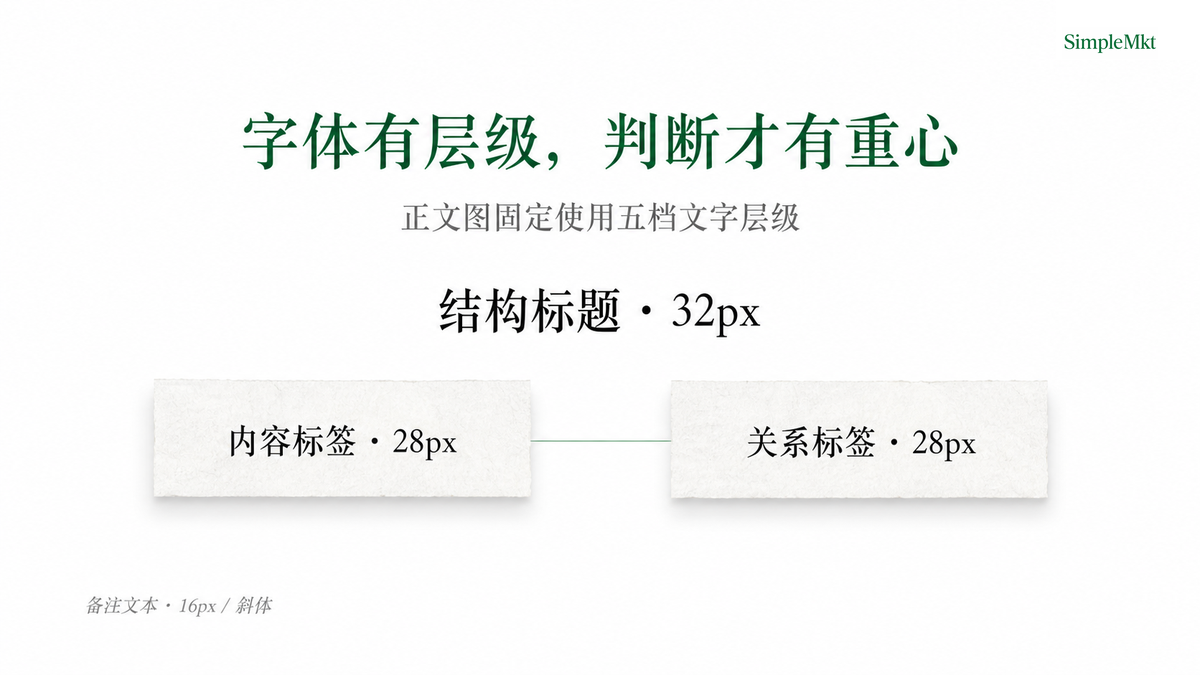
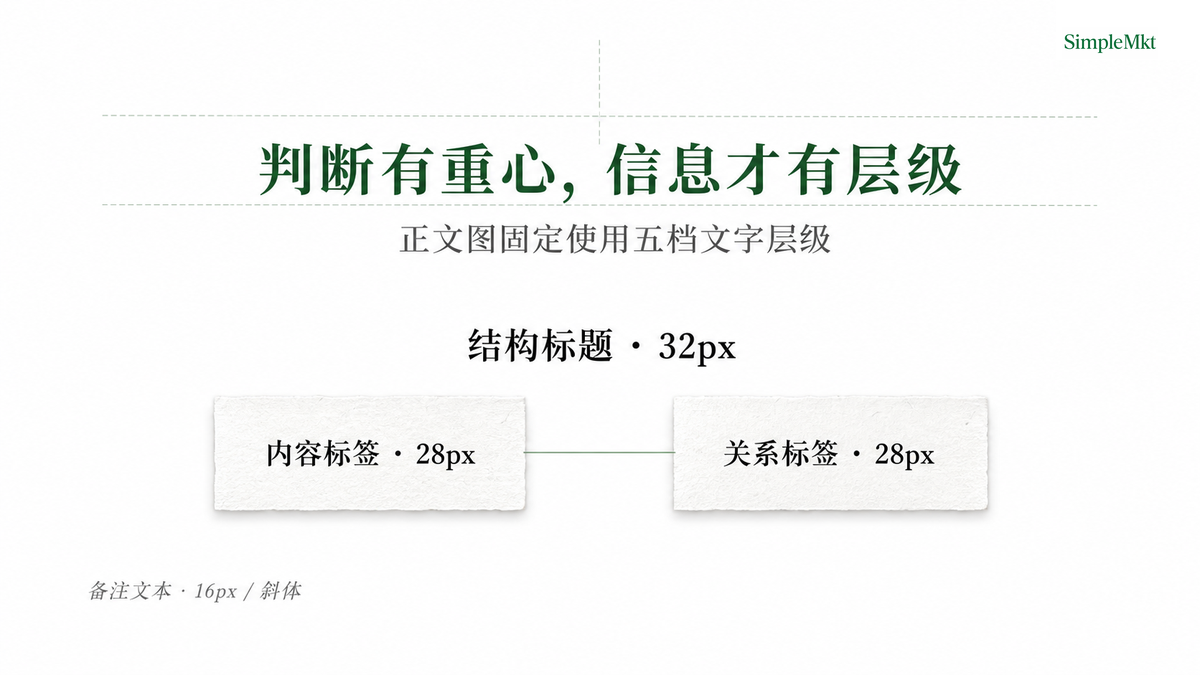
docs: deepen visual system guide

diff --git a/README.md b/README.md
@@ -34,25 +34,15 @@ git clone --depth 1 https://github.com/Lone3m-tech/smkt-article-visual.git \
 
 Remove `--global` for a project installation. For Claude Code, replace `--agent codex` with `--agent claude-code` and use `~/.claude/skills/smkt-article-visual` as the clone destination.
 
-## Start in 30 seconds
+## Three working modes
 
-Give it a local Markdown source and choose a delivery mode:
+| Mode | What the Skill does | What it does not do yet |
+| --- | --- | --- |
+| `plan` | Finds the audience obstacle, selects one visual grammar, names the required source details, placement, and what must not be drawn. | Generate artwork or alter the source. |
+| `generate` | Creates the accepted cover, figures, or frames; records the actual prompt and every revision; places article figures at their approved anchors. | Rewrite the source prose. |
+| `qa` | Checks meaning, grammar topology, type hierarchy, Logo reserve, disclosure, file placement, and manifest acceptance. | Call a generated image finished merely because it exists. |
 
-```yaml
-source_path: ./article.md
-delivery_mode: article_package
-mode: plan
-```
-
-Use `article_package` to place a cover and explanatory figures back into an article. Use `presentation_frames` when a speech, report, proposal, or workshop outline needs independent visual frames:
-
-```yaml
-source_path: ./talk.md
-delivery_mode: presentation_frames
-mode: plan
-```
-
-Review the visual plan first, then use `mode: generate`. When direct generation is already intended, say so in the request.
+The normal sequence is `plan → generate → qa`. A direct-generation request may skip plan acceptance, but it still creates a plan before producing assets.
 
 ## From text to a visual people can follow
 
@@ -130,6 +120,8 @@ assets/image/
 
 `manifest.json` appends every generation attempt; `accepted_attempt` identifies the current accepted version. The Skill never rewrites source prose.
 
+![Article package and presentation-frame delivery modes](examples/readme-visuals/delivery-modes.png)
+
 ## Visual grammar library
 
 Choose one primary grammar for each figure. Start with the relationship an audience needs to understand, then select the structure; a shared visual style must not flatten different questions into one layout.
@@ -156,9 +148,19 @@ The demo article, “Open-source illustration Skill: images are part of the expl
 
 [Open the demo article](examples/demo-article/article.md)
 
-## Default visual direction and boundaries
+## Default visual style
 
-The default is the SimpleMkt editorial style: a pure-white canvas, clear type hierarchy, fine relations, restrained material, and a consistent Logo. Generated images are never presented as authentic screenshots or factual evidence; non-factual examples carry an explicit note.
+This release uses one editorial visual system across every cover, figure, and presentation frame. It keeps a series coherent without forcing every relationship into the same layout.
+
+![Typography hierarchy](examples/readme-visuals/typography-hierarchy.png)
+
+- **Cover and body figures have different jobs.** The cover is a quiet PPT cover: the article H1 is preserved character-for-character, supported by one dominant visual metaphor. A body figure is an explanation: centered core judgment, one short subtitle, then one dominant relationship.
+- **Type has a reading order.** Body titles stay smaller than cover titles, are centered in one fixed upper band, and never compete with the top-right Logo reserve. Chinese uses one editorial serif family; English identifiers use a restrained companion face; handwritten semantic text is rejected.
+- **Elements carry meaning before labels do.** Source and claim use an excerpt sheet, stages and outputs use narrow paper strips, decisions and boundaries use cut-paper fields, and positions or changes use direct ink, hatch, or anchors. Empty paper cards with a label are not enough.
+- **Sketching must explain.** An engraving or pencil-sketch subject is allowed only when it comes from the article's actual relation or source detail, then receives direct labels and hairline leaders. It never defaults to plants, generic objects, icons, or decorative metaphors.
+- **The finish stays editorial, not UI-like.** Pure white canvas, fine low-contrast lines, one faint paper elevation, restrained forest-green emphasis, and no dashboard cards, heavy arrows, decorative grids, crop marks, or floating ornament.
+- **The Logo is deterministic.** The packaged wordmark is placed after generation in a protected white reserve. No model-rendered Logo, title, label, or connector may enter that area.
+- **The style protects meaning and trust.** No heading automatically earns a figure; one figure answers one primary question with one primary grammar. Article prose stays intact and every accepted image path appears once at its approved anchor. Non-factual examples carry the lower-left disclosure `图中示例仅为解释用途，并非事实`; generated work is never presented as a real screenshot, source, or fact.
 
 ## License
 
